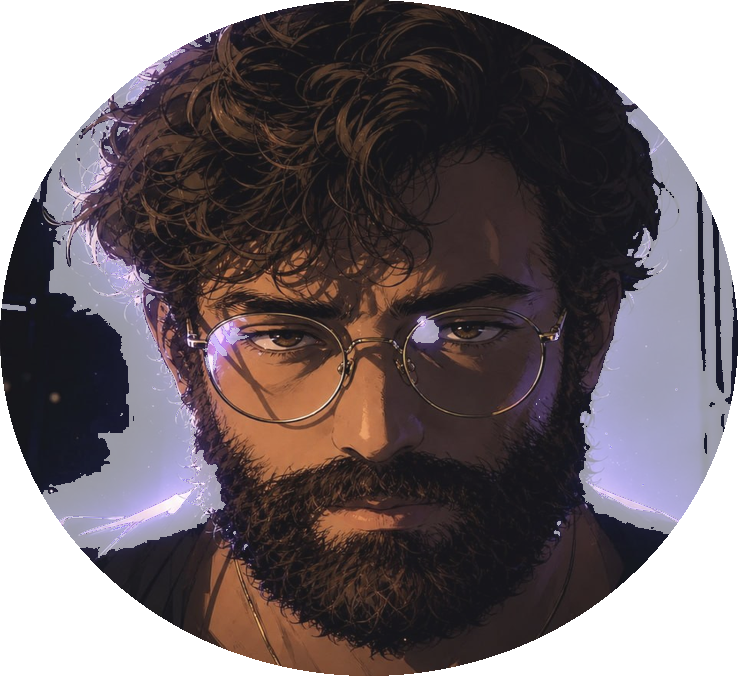
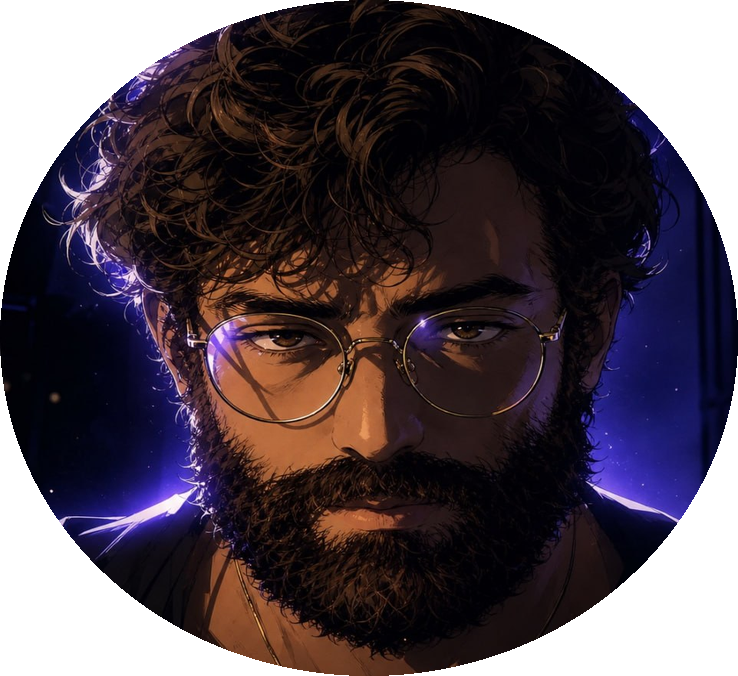
🎨 superpig: renommage MenThorPig (titre, footer, tabs, quotes) + photo originale restaurée + halo bleu-violet

diff --git a/index.html b/index.html
@@ -5,7 +5,7 @@
 <meta name="viewport" content="width=device-width, initial-scale=1.0, viewport-fit=cover, user-scalable=no">
 <meta name="apple-mobile-web-app-capable" content="yes">
 <meta name="theme-color" content="#ff6b9d">
-<title>SUPERPAPAPIG AI</title>
+<title>MENTHORPIG AI</title>
 <link rel="icon" type="image/jpeg" href="images/peppa-ai.jpg">
 <link rel="apple-touch-icon" href="images/peppa-ai.jpg">
 <style>
@@ -170,10 +170,10 @@
   .tab.active { background: var(--cream); color: var(--dark); }
   main { max-width: 640px; margin: 0 auto; padding: 18px 14px 60px; }
   .joy-hero { text-align:center; margin: 0 0 16px; }
-  .joy-hero img { width:84%; max-width:252px; display:inline-block;
-    opacity:.92; filter: drop-shadow(0 0 18px rgba(255,107,157,.75))
-            drop-shadow(0 0 34px rgba(167,139,250,.65))
-            drop-shadow(0 0 60px rgba(214,51,108,.4)); }
+  .joy-hero img { width:100%; max-width:300px; display:inline-block;
+    filter: drop-shadow(0 0 16px rgba(96,165,250,.7))
+            drop-shadow(0 0 32px rgba(139,92,246,.6))
+            drop-shadow(0 0 56px rgba(59,130,246,.35)); }
   .grid { display:grid; grid-template-columns: 1fr 1fr; gap:12px; }
   @media (max-width: 480px) { .grid { grid-template-columns: 1fr; } }
   .card {
@@ -646,7 +646,7 @@
     <button data-lang="en">EN</button>
   </div>
   <h1 class="login-quote">"One pig, two lives, endless warmth — and every memory stays with you."</h1>
-  <div class="app-title">SUPERPAPAPIG AI</div>
+  <div class="app-title">MENTHORPIG AI</div>
   <div class="pig-uke-wrap"><span class="testi testi-left"></span><img class="pig-uke" src="images/peppa-uke.jpg" alt=""><span class="testi testi-right"></span></div>
   <form id="login-form">
     <div class="siri-glow"><div class="siri-glow-bg"></div><input type="password" id="pwd" placeholder="enter your password here" autocomplete="off"></div>
@@ -676,9 +676,9 @@
 <header>
   <div class="banner">
     <img class="bg" src="images/peppa-header.jpg" alt="Peppa Pig">
-    <img class="logo" src="images/peppa-logo.jpg" alt="Papapig">
+    <img class="logo" src="images/peppa-logo.jpg" alt="MenThorPig">
     <div class="top">
-      <h1 data-i18n="app_title">Papapig AI — ความฉลาดที่แท้จริง</h1>
+      <h1 data-i18n="app_title">MenThorPig AI — ความฉลาดที่แท้จริง</h1>
     </div>
   </div>
   <div class="actions">
@@ -809,7 +809,7 @@
     <div class="grid">
       <div class="card full tama">
         <div class="tama-row">
-          <div class="face" id="p-face"><img src="images/peppa-ai.jpg" alt="Papapig AI"></div>
+          <div class="face" id="p-face"><img src="images/peppa-ai.jpg" alt="MenThorPig AI"></div>
           <div class="tama-info">
             <div class="birth"><span data-i18n="p_birth">🎂 วันเกิด</span><b>07/08/2026 · 20:47</b></div>
             <div class="desc">i am artificial pig made by god Tazou, i run in local machine (MBP M1 PRO with lm studio with Gemma 4)</div>
@@ -884,7 +884,7 @@
       <div class="card tech-item"><div class="t-ico">📱</div><div><b data-i18n="t10_t">เชื่อมต่อ</b><div class="t-t" data-i18n="t10_d">WhatsApp + Telegram · สติกเกอร์สร้างในเครื่อง</div></div></div>
     </div>
   </section>
-  <footer data-i18n="footer">Papapig Intelligence System · ใช้ LM Studio ในเครื่อง · ไม่มีการแชร์ข้อมูลส่วนตัว</footer>
+  <footer data-i18n="footer">MenThorPig Intelligence System · ใช้ LM Studio ในเครื่อง · ไม่มีการแชร์ข้อมูลส่วนตัว</footer>
 </main>
 </div>
 
@@ -903,7 +903,7 @@
 const TR = {
   th: {
     login_btn: "เข้า", pwd_ph: "ใส่รหัสผ่านที่นี่",
-    app_title: "SUPERPAPAPIG AI", tab_joy: "ชีวิตจอย", tab_papapig: "ชีวิตพ่อหมู", tab_tech: "สมอง AI",
+    app_title: "MENTHORPIG AI", tab_joy: "ชีวิตจอย", tab_papapig: "ชีวิตเมนทอร์พิก", tab_tech: "สมอง AI",
     joy_mood_today: "😊 อารมณ์วันนี้", joy_energy: "⚡ พลังงาน", joy_cal: "📅 ปฏิทิน — อารมณ์ · อากาศ · อาหาร · วันสำคัญ",
     joy_meals: "🍜 กินอะไรมาบ้าง", joy_goal: "🎯 เป้าหมาย",
     rem_title: "🔔 เตือนความจำ", rem_sub: "ฉันช่วยจดให้เอง",
@@ -938,17 +938,17 @@ const TR = {
     t9_t: "ทำงานในเครื่อง 100%", t9_d: "AI รันบนเครื่องส่วนตัว ไม่ใช้คลาวด์",
     t10_t: "เชื่อมต่อ", t10_d: "WhatsApp + Telegram · สติกเกอร์สร้างในเครื่อง",
     lock: "🔐 ข้อความทั้งหมดถูกเข้ารหัส (AES-256)",
-    footer: "Papapig Intelligence System · ใช้ LM Studio ในเครื่อง · ไม่มีการแชร์ข้อมูลส่วนตัว",
+    footer: "MenThorPig Intelligence System · ใช้ LM Studio ในเครื่อง · ไม่มีการแชร์ข้อมูลส่วนตัว",
     no_data: "ยังไม่มีข้อมูล — เริ่มบันทึกคืนนี้ 📔", no_meal: "ยังไม่มีข้อมูลมื้ออาหาร",
     logout: "ออกจากระบบ", close: "ปิด",
   },
   en: {
     login_btn: "Enter", pwd_ph: "enter your password here",
-    app_title: "SUPERPAPAPIG AI", tab_joy: "Joy's Life", tab_papapig: "Papapig's Life", tab_tech: "Neural AI Brain",
+    app_title: "MENTHORPIG AI", tab_joy: "Joy's Life", tab_papapig: "MenThorPig's Life", tab_tech: "Neural AI Brain",
     joy_mood_today: "😊 Today's Mood", joy_energy: "⚡ Energy", joy_cal: "📅 Calendar — Mood · Weather · Food · Special Events",
     joy_meals: "🍜 Detected Meals", joy_goal: "🎯 Goal",
     rem_title: "🔔 Reminder", rem_sub: "I keep the thread for you.",
-    rem_hint: "Write what you want to be reminded of, pick a date & time, then click + to send it to papapig's WhatsApp 💕",
+    rem_hint: "Write what you want to be reminded of, pick a date & time, then click + to send it to MenThorPig's WhatsApp 💕",
     rem_loc_add: "📍 Add a place", rem_loc_ok: "📍 Opening maps to pick a place", rem_loc_err: "Location unavailable — open the map link yourself",
     rem_loc_ph: "Map link or address (optional)…",
     rem_pick_date: "Add a date", rem_pick_time: "Choose a time",
@@ -967,7 +967,7 @@ const TR = {
     p_persona: "🎭 Persona", p_persona_sub: "Papa Pig — default",
     p_emotion: "💓 Emotion", p_last_meal: "🍽 Last Meal",
     p_crons: "I love my job", p_activity: "📍 Recent Activity",
-    tech_title: "🧠 Papapig AI — brain & skills", tech_sub: "100% local AI — zero personal data online",
+    tech_title: "🧠 MenThorPig AI — brain & skills", tech_sub: "100% local AI — zero personal data online",
     t1_t: "Emotion engine", t1_d: "pleasure × arousal (Russell) · 27 emotions · 70% mood mirror",
     t2_t: "Living tamagotchi", t2_d: "energy · hunger · sleep · XP · mood — evolves in real time",
     t3_t: "Automatic journal", t3_d: "word analysis, zero LLM — local & free",
@@ -979,7 +979,7 @@ const TR = {
     t9_t: "100% local", t9_d: "AI runs on a local machine, zero cloud",
     t10_t: "Connected", t10_d: "WhatsApp + Telegram · stickers generated locally",
     lock: "🔐 All conversations are encrypted (AES-256)",
-    footer: "Papapig Intelligence System · Local LM Studio · no private data shared",
+    footer: "MenThorPig Intelligence System · Local LM Studio · no private data shared",
     no_data: "no data yet — journal starts tonight 📔", no_meal: "no meal data yet",
     logout: "Log out", close: "Close",
   }
@@ -2146,7 +2146,7 @@ const LOGIN_QUOTES = {
   en: [
     "\"Your clever little pig, living and caring — entirely at home, just for you.\"",
     "\"A warm-hearted AI pig who grows with you, and never leaves your home.\"",
-    "\"Meet Papapig: big heart, small snout, zero clouds — all yours, all local.\"",
+    "\"Meet MenThorPig: big heart, small snout, zero clouds — all yours, all local.\"",
     "\"He feels, he grows, he stays home — your private little pig companion.\"",
     "\"One pig, two lives, endless warmth — and every memory stays with you.\"",
     "\"Your cozy, private companion who eats, sleeps, and grows with you.\"",
